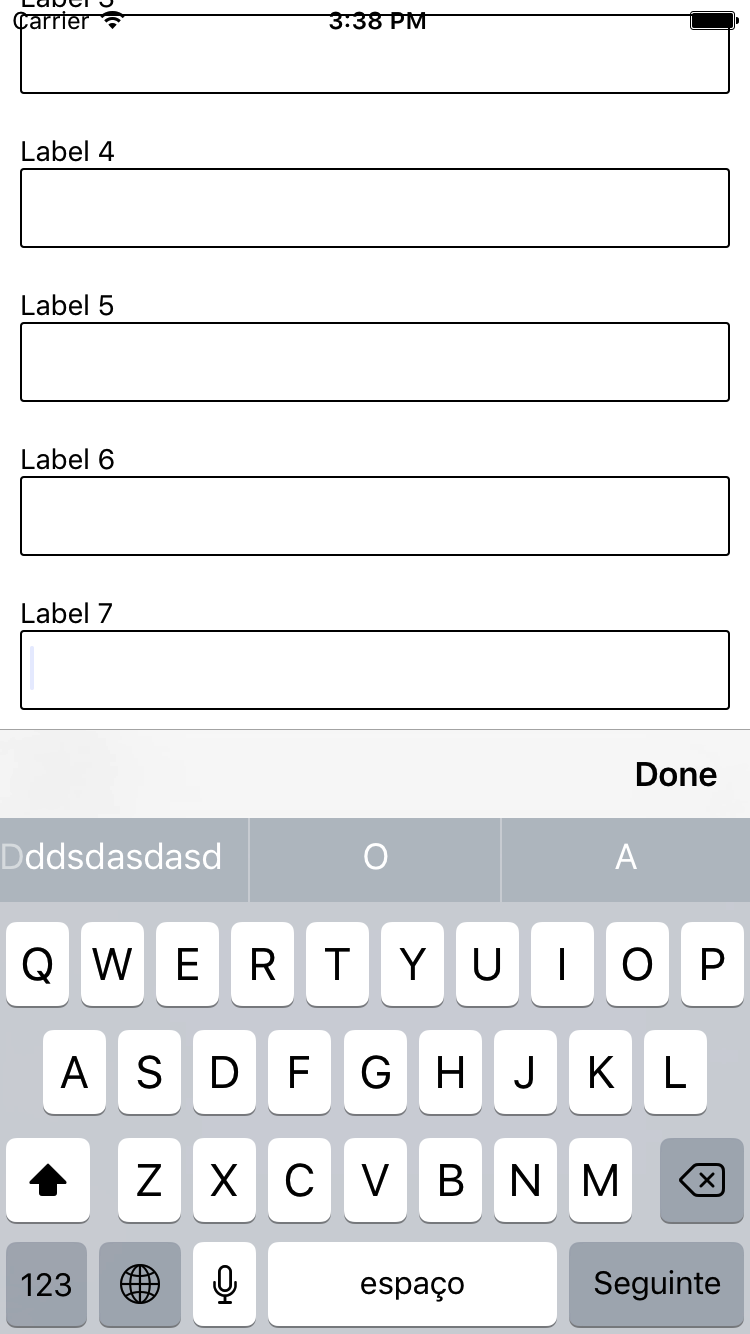
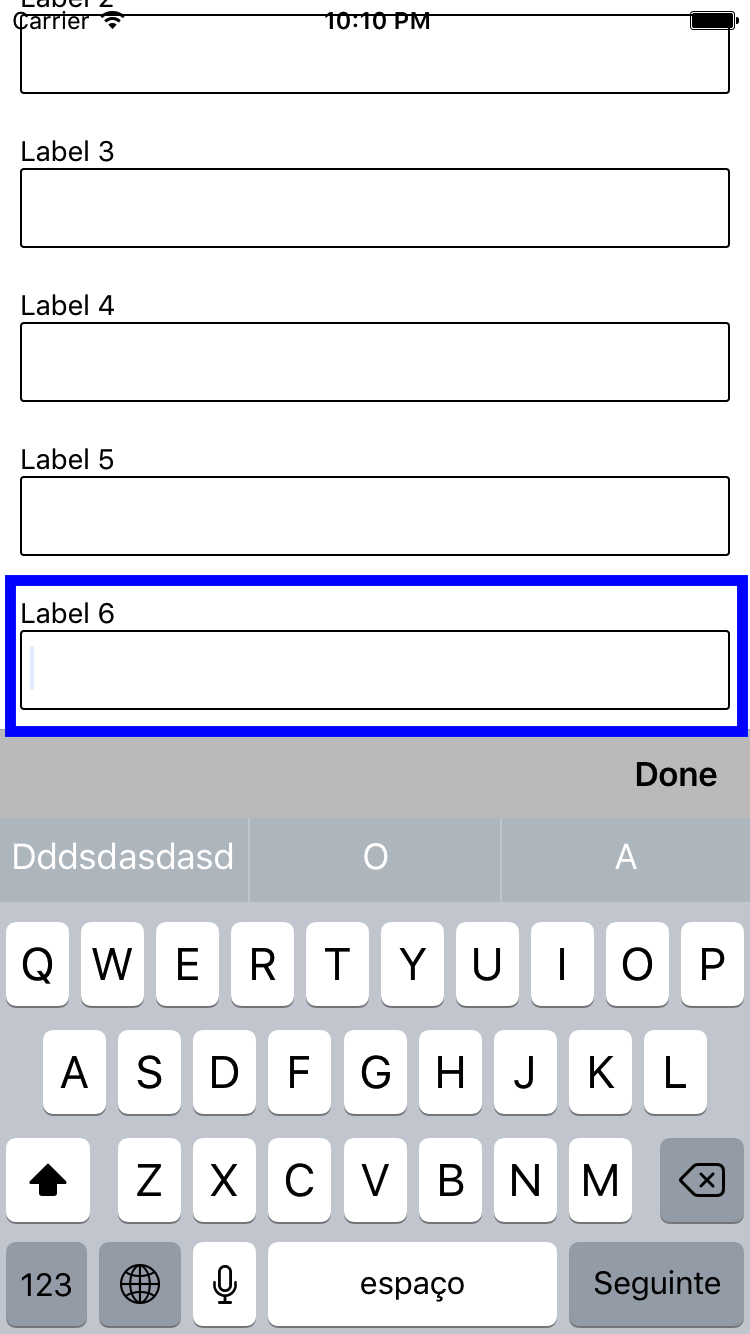
Sample enable/disable option

diff --git a/Sample/index.ios.js b/Sample/index.ios.js
@@ -29,7 +29,8 @@ import {
     Text,
     View,
     TextInput,
-    ScrollView
+    ScrollView,
+    Switch
 } from 'react-native';
 
 import KeyboardManager from 'react-native-keyboard-manager'
@@ -46,7 +47,9 @@ KeyboardManager.setShouldResignOnTouchOutside(true);
 
 class SampleKeyboardManager extends Component {
 
-    state = {};
+    state = {
+        enableDisable: true
+    };
 
     componentDidMount() {
         KeyboardManager.resignFirstResponder();
@@ -59,6 +62,13 @@ class SampleKeyboardManager extends Component {
             })
     }
 
+    enableDisable(value) {
+        KeyboardManager.setEnable(value);
+        this.setState({
+            enableDisable: value
+        })
+    }
+
     render() {
         const self = this;
 
@@ -66,7 +76,7 @@ class SampleKeyboardManager extends Component {
 
         const inputStyle = { height: 40, borderColor: "#000000", borderWidth: 1, borderRadius: 2, paddingLeft: 5 };
 
-        for (let i = 0; i < 12; i++) {
+        for (let i = 0; i < 7; i++) {
             let ref = "input" + i;
             let nextRef = "input" + (i + 1);
             let nextFocus = () => { self.refs[nextRef] ? self.refs[nextRef].focus() : null };
@@ -92,13 +102,19 @@ class SampleKeyboardManager extends Component {
         }
 
         return (
-            <ScrollView style={{ flex: 1 }}>
-
-                <Text style={{ marginTop: 50, textAlign: "center" }}>React-Native Keyboard Manager</Text>
-
-                {inputs}
-
-            </ScrollView>
+            <View style={{ flex: 1 }}>
+                <View style={{ alignItems: "center", flex: 1 }}>
+                    <Text style={{ marginTop: 50, textAlign: "center" }}>React-Native Keyboard Manager</Text>
+                    <View style={{ marginTop: 10, flexDirection: "row", alignItems: "center" }}>
+                        <Text>Enable/Disable </Text>
+                        <Switch onValueChange={this.enableDisable.bind(this)}
+                            value={this.state.enableDisable} />
+                    </View>
+                </View>
+                <View>
+                    {inputs}
+                </View>
+            </View>
         )
     }
 }
